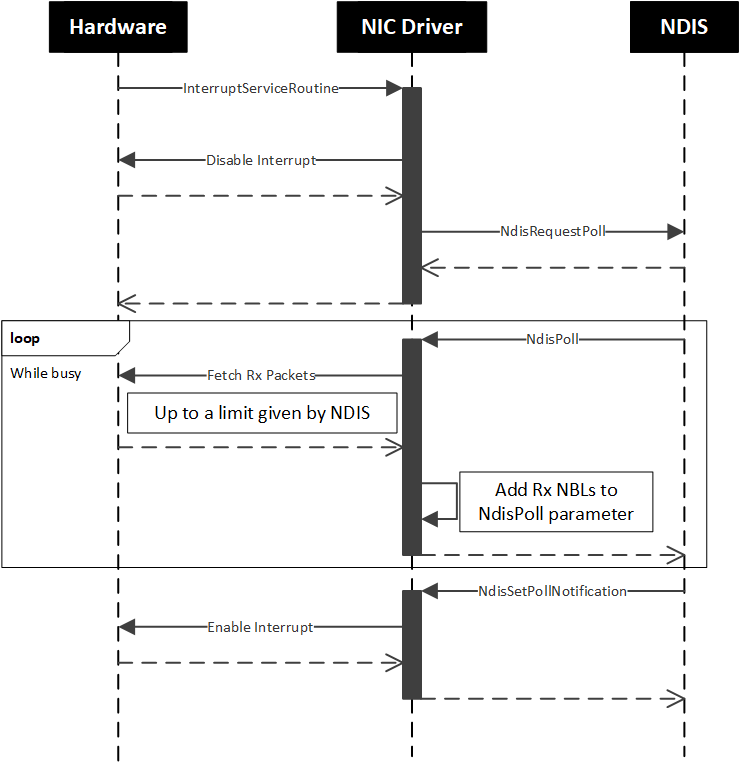
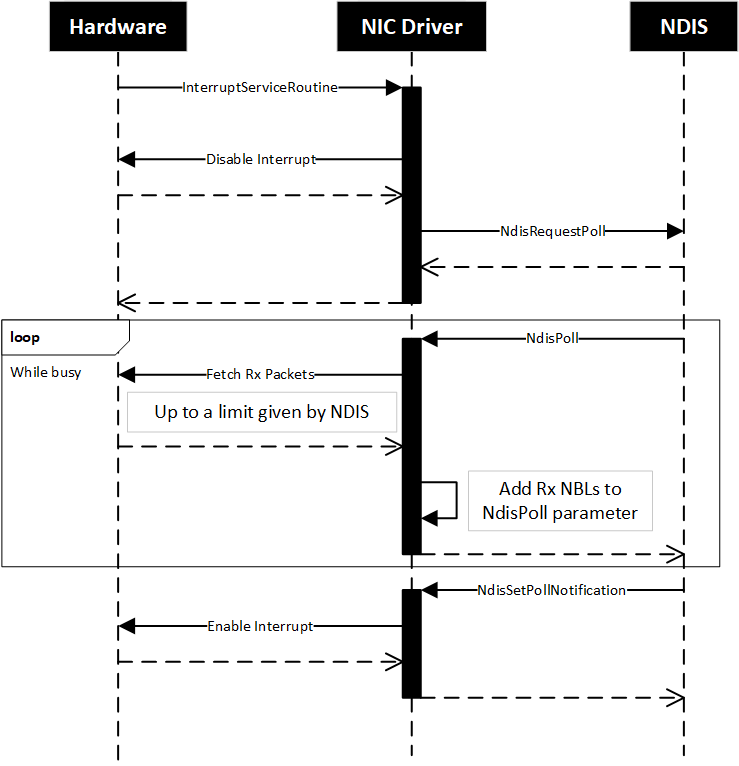
minor edits

diff --git a/windows-driver-docs-pr/network/ndis-poll-mode.md b/windows-driver-docs-pr/network/ndis-poll-mode.md
@@ -13,16 +13,16 @@ ms.localizationpriority: medium
 
 NDIS Poll Mode is an OS controlled polling execution model that drives the network interface datapath.
 
-NDIS Poll Mode offers an alternative to the traditional NDIS datapath model where drivers defer I/O operations to DPCs. In place of DPCs, NDIS polls the miniport driver for receive indications and send completions. 
+Previously, NDIS had no formal definition of a datapath execution context. NDIS drivers typically relied on Deferred Procedure Calls (DPCs) to implement their execution model. NDIS Poll Mode offers an alternative to the DPC model and similar execution tools. 
 
-Poll Mode gives the OS more flexibility when making scheduling decisions and moves the complexity of those decisions away from NIC drivers into NDIS. To achieve this, Poll Mode provides:
+Poll Mode gives the OS more flexibility when making scheduling decisions and moves the complexity of those decisions away from NIC drivers and into NDIS. To achieve this Poll Mode provides:
 1. A mechanism for the OS to exert back pressure on the NIC. 
 2. A mechanism for the OS to finely control interrupts. 
 
 NDIS Poll Mode is available to NDIS 6.0 and later miniport drivers.
 
-### The traditional NDIS datapath model
-The following sequence diagram illustrates how the hardware and the driver coordinate to handle a burst of Rx packets in the traditional NDIS datapath model. In this example, the hardware is standard in terms of PCIe NICs. It has a receive hardware queue and an interrupt mask for that queue. 
+### The DPC model
+The following sequence diagram illustrates a typical example of how an NDIS miniport driver handles a burst of Rx packets using a DPC. In this example the hardware is standard in terms of PCIe NICs. It has a receive hardware queue and an interrupt mask for that queue. 
 
 ![Diagram illustrating NDIS DPC model](images/ndis-traditional-dpc-diagram.png)
 
@@ -35,11 +35,11 @@ When there's no network activity the hardware has the Rx interrupt enabled. When
  
 Two pain points can affect the network stack when the driver defers I/O operations to a DPC:
  
-1. The driver has no idea if the system is capable of processing the data that is being indicated, which results in the driver having no choice other than draining as many elements as possible from is hardware queue and indicating up the stack. (What is the consequence of this?)
+1. The driver doesn't know if the system is capable of processing all of the data that is being indicated, so the driver has no choice but to drain as many elements as possible from its hardware queue and indicate them up the stack. 
 
-1. Since the driver is using a DPC to defer work from its ISR all the indications are made at DISPATCH_LEVEL, which can overwhelm the system when longs indication chains are made.  
+1. Since the driver is using a DPC to defer work from its ISR, all the indications are made at DISPATCH_LEVEL which can overwhelm the system when longs indication chains are made.  
 
-### Introducing the Poll object 
+### Introduction to Poll objects 
 
 NDIS Poll Mode introduces the Poll object to resolve the two pain points associated with DPCs. A Poll object is an execution context construct. Miniport drivers can use a Poll object in place of a DPC when dealing with datapath operations. 
 
@@ -51,25 +51,25 @@ A Poll object offers the following:
 
 * The execution can move between IRQL levels transparently to the driver. 
 
-* It has a concept of iteration and interrupts built in. In the traditional model, drivers are forced to re-enable interrupts every time they finish a DPC. With NDIS Poll Mode, drivers do not need to re-enable interrupts each polling iteration.
+* It has a concept of iteration and interrupts built in. When using DPCs, drivers are forced to re-enable interrupts every time they finish a DPC. With NDIS Poll Mode, drivers do not need to re-enable interrupts each polling iteration.
 
 * It provides a way for NDIS to set work limits per iteration. 
 
-### Polling model
+### The NDIS Poll Mode model
 
 The following sequence diagram illustrates how the same hypothetical PCIe NIC driver handles a burst of Rx packets using a Poll object instead of a DPC. 
 
-![Diagram illustrating NDIS Poll Mode](images/ndis-poll-mode-sequence-diagram1.png)
+![Diagram illustrating NDIS Poll Mode](images/ndis-poll-mode-sequence-diagram.png)
 
-Like in the traditional NDIS datapath model, when an Rx packet arrives the hardware generates an interrupt, NDIS calls the driver’s ISR, and the driver disables the interrupt from the ISR. At this point, the polling model diverges:
+Like the DPC model, when an Rx packet arrives the hardware generates an interrupt, NDIS calls the driver’s ISR, and the driver disables the interrupt from the ISR. At this point the Poll Mode model diverges:
 
 1. Instead of queueing a DPC, the driver [queues a Poll object](#queuing-a-poll-object-for-execution) (that it [previously created](#creating-a-poll-object)) from the ISR to notify NDIS that new work is ready to be processed.
 
 1. At some point in the future NDIS calls the driver's [poll iteration handler](#implementing-the-poll-iteration-handler) to process the work. Unlike a DPC, the driver is not allowed to indicate as many Rx NBLs as there are elements ready in its hardware queue. The driver should instead check the handler's poll data parameter to get the maximum number of NBLs it can indicate.
  
-    Once the driver fetches up to the maximum number of Rx packets it should initialize NBLs and add them to the NBL queue provided by the poll function and exit the callback. The driver shouldn't enable the interrupt before exiting.
+    Once the driver fetches up to the maximum number of Rx packets it should initialize NBLs, add them to the NBL queue provided by the poll handler, and exit the callback. The driver shouldn't enable the interrupt before exiting.
 
-1. NDIS continues to poll the driver until it assesses that the driver is no longer making forward progress. At this point the NDIS will stop polling and ask the driver to [re-enable the interrupt](#managing-interrupts).
+1. NDIS continues to poll the driver until it assesses that the driver is no longer making forward progress. At this point NDIS will stop polling and ask the driver to [re-enable the interrupt](#managing-interrupts).
 
 ## Creating a Poll object
 
@@ -140,7 +140,8 @@ MiniportIsr(
 
 ## Implementing the Poll iteration handler
 
-When the driver calls [**NdisRequestPoll**](nf-poll-ndisrequestpoll.md), NDIS will invoke the [*NdisPoll*](/windows-hardware/drivers/ddi/poll/nc-poll-ndis_poll) callback to poll for receive indications and send completions. NDIS will keep invoking *NdisPoll* while the driver is making forward progress on receive indications or transmit completions. 
+NDIS invokes the miniport driver's [*NdisPoll*](/windows-hardware/drivers/ddi/poll/nc-poll-ndis_poll) callback to poll for receive indications and send completions. NDIS first invokes *NdisPoll* when the driver calls [**NdisRequestPoll**](nf-poll-ndisrequestpoll.md) to queue a Poll object.
+NDIS will keep invoking *NdisPoll* while the driver is making forward progress on receive indications or transmit completions. 
 
 For receive indications, the driver should do the following in *NdisPoll*:
 1. Check the **receive** parameter of the [**NDIS_POLL_DATA**](ns-poll-ndis_poll_data.md) structure to get the maximum number of NBLs it can indicate.
@@ -150,7 +151,7 @@ For receive indications, the driver should do the following in *NdisPoll*:
 1. Exit the callback. 
 
 For transmit completions, the driver should do the following in *NdisPoll*:
-1. Check the **transmit** parameters of the [**NDIS_POLL_DATA**](ns-poll-ndis_poll_data.md) structure to get the maximum number of NBLs it can complete.
+1. Check the **transmit** parameter of the [**NDIS_POLL_DATA**](ns-poll-ndis_poll_data.md) structure to get the maximum number of NBLs it can complete.
 1. Fetch up to the maximum number of Tx packets. 
 1. Complete the NBLs.
 1. Add them to the NBL queue provided by the [**NDIS_POLL_TRANSMIT_DATA**](ns-poll-ndis_poll_transmit_data.md) structure (located in the [**NDIS_POLL_DATA**](ns-poll-ndis_poll_data.md) structure of the *NdisPoll* **PollData** parameter).
